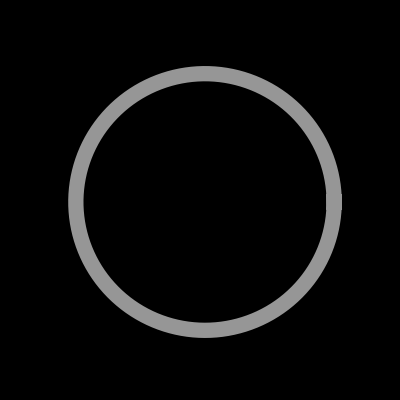
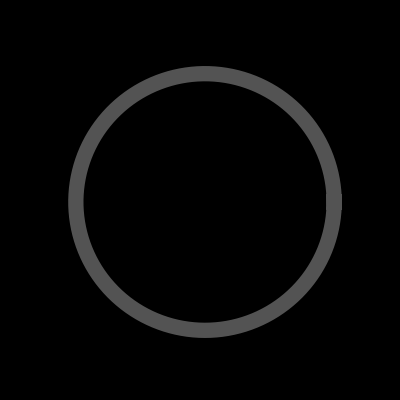
new

Changed region(s): [[0.15, 0.15, 0.87, 0.87]]

diff --git a/runBern.py b/runBern.py
@@ -5,7 +5,8 @@ from numpy.random import binomial, uniform
 import numpy as np
 import random
 import pandas as pd
-
+import csv
+import pickle
 import matplotlib.pyplot as plt
 
 try:
@@ -22,6 +23,19 @@ try:
 except:
     print('cant find response pad. Exiting now')
     sys.exit()
+
+
+
+
+
+def generateIntro(win):
+    intro = TextStim(win, text = 'Press RIGHT key if there are more Os \n Press LEFT key if there are more Xs\n\n Press any key on keypad to start', color='white', pos = (0,0))
+    return intro
+
+
+def generateBreak(win):
+    breakPage = TextStim(win, text = 'Break Time. \n Press any key to start.', color='white', pos = (0,0))
+    return breakPage
 
 
 def simulateTrials(numTrials: int, numSteps: int, numStim: int, Bias: float, initRange:range):
@@ -52,7 +66,7 @@ def simulateTrials(numTrials: int, numSteps: int, numStim: int, Bias: float, ini
 
 def randomizeTrials(X0,X1):
     trialTotal = len(X0) + len(X1)
-    randlist = np.arange(0,100)
+    randlist = np.arange(0,int(trialTotal))
     allTrials = np.vstack((X0,X1))
     random.shuffle(randlist)
     allTrials = allTrials[randlist,:]
@@ -72,6 +86,7 @@ def genVisualStim(win,size,pos):
 
 
 def runTrial(allTrials,img0,imgX,win,stimDur,trialIndex, refreshRate,port=s,keymap=keymap,abortkey=7):
+    timer = core.Clock()
     keylist=[]
     sequence = allTrials[trialIndex]
     fix = generateFixationCross(win)
@@ -88,7 +103,7 @@ def runTrial(allTrials,img0,imgX,win,stimDur,trialIndex, refreshRate,port=s,keym
     clear_buffer(port)
     reset_timer(port)
     while endTrial is False:
-        stim = img0 if sequence[count]==-1 else imgX
+        stim = img0 if sequence[count]==1 else imgX    # if 1 show 0s, if -1 show X
         for f in range(int(refreshRate*stimDur)):
             stim.draw()
             win.flip()
@@ -105,14 +120,14 @@ def runTrial(allTrials,img0,imgX,win,stimDur,trialIndex, refreshRate,port=s,keym
                 if press[0] ==1:
                     endTrial = True
                     core.wait(1)
-                    return count, t1, key, press, btime
+                    return count, t1, key, press, btime, stimDur, sequence
         count +=1
         if count == len(sequence):
             win.flip()
             endTrial = True
             t1 = timer.getTime()
     core.wait(1)
-    return count,t1,key,press,btime
+    return count,t1,key,press,btime,stimDur,sequence
 
 def winThreshold(win):
     win.recordFrameIntervals = True
@@ -120,24 +135,146 @@ def winThreshold(win):
     logging.console.setLevel(logging.WARNING)
     return win
 
+def clear_reset_port(port):
+    clear_buffer(port)
+    reset_timer(port)
 
-win = visual.Window(size=(1920, 1080), units='pix',color='black')
-win = winThreshold(win)
-X0,X1,initSteps = simulateTrials(numTrials=50,numSteps=60,numStim=1,Bias=0.08,initRange = [0,4,8])
-img0,imgX = genVisualStim(win,120,(0,0))
-allTrials = randomizeTrials(X0,X1)
-timer = core.Clock()
+# set up experiment
 
-resp =[]
-for t in range(0,5):
-    count,t1,key,press,btime = runTrial(allTrials= allTrials,img0=img0,imgX=imgX,win=win,stimDur=0.1,trialIndex=t,refreshRate=60)
-    try:
-        btime = HexToRt(BytesListToHexList(btime))
-    except IndexError:
-        pass
-    resp.append((t1, btime, press, count, key))
-    print(t1,btime,count)
-    print('Overall, %i frames were dropped.' % win.nDroppedFrames)
+def beginExp(port,numTrials,numSteps,numStim,Bias,initRange, newWin=True, win=None):
+    if newWin is True:
+        win = visual.Window(size=(1920, 1080), units='pix',color='black')
+        win = winThreshold(win)
+        intro = generateIntro(win)
+        intro.draw()
+        win.flip()
+        clear_reset_port(port)
+        resp = False
+        while resp is False:
+            k = port.in_waiting
+            if k != 0:
+                resp = True
+    else:
+        win = win
+    X0,X1,initSteps = simulateTrials(numTrials=numTrials,numSteps=numSteps,numStim=numStim,Bias=Bias,initRange = initRange)
+    img0,imgX = genVisualStim(win,120,(0,0))
+    allTrials = randomizeTrials(X0,X1)
+    return win, allTrials, img0, imgX, X0,X1
+
+
+def runBlock(port,numTrials,numSteps,numStim,Bias,initRange, stimDur, refreshRate=60, newWin = True, win=None):
+    win,allTrials,img0,imgX, X0,X1 = beginExp(port=port,numTrials=numTrials,numSteps=numSteps,numStim=numStim,Bias=Bias,initRange = initRange, newWin=newWin, win=win)
+    resp =[]
+    for t in range(0,len(allTrials)):
+        count,t1,key,press,btime, stimDur, sequence = runTrial(allTrials= allTrials,img0=img0,imgX=imgX,win=win,stimDur=stimDur,trialIndex=t,refreshRate=refreshRate)
+        try:
+            btime = HexToRt(BytesListToHexList(btime))
+        except IndexError:
+            pass
+        resp.append((t1, btime, press, count, key, stimDur, Bias, sequence))
+        print(t1,btime,count)
+        print('Overall, %i frames were dropped.' % win.nDroppedFrames)
+    return resp, allTrials,X0,X1, win
+
+def break_wait(win):
+    breakPage = generateBreak(win)
+    breakPage.draw()
+    win.flip()
+    clear_reset_port(s)
+    resp = False
+    while resp is False:
+        k = s.in_waiting
+        if k != 0:
+            resp = True
+    return win
+
+
+subj = input('############')
+trialPerBlock = 30
+if trialPerBlock % 2 != 0:
+    print('error: even trials')
+numTrial = int(trialPerBlock/2)
+
+#
+
+resp, allTrials,X0,X1, win = runBlock(port=s,numTrials=numTrial,numSteps=60,numStim=1,Bias=0.06,initRange = [0,4,8], stimDur= 0.05, refreshRate=60, newWin=True)
+df = pd.DataFrame(resp)
+df.columns = ['time','bytetime','press','count','key','stimDur','Bias','sequence']
+df.to_csv('data/'+ subj + '_block_0' + '.csv', index= False)
+win = break_wait(win)
+
+resp, allTrials,X0,X1, win = runBlock(port=s,numTrials=numTrial,numSteps=60,numStim=1,Bias=0.06,initRange = [0,4,8], stimDur= 0.1, refreshRate=60, newWin=False, win=win)
+df = pd.DataFrame(resp)
+df.columns = ['time','bytetime','press','count','key','stimDur','Bias','sequence']
+df.to_csv('data/'+ subj+ '_block_1' + '.csv', index= False)
+win = break_wait(win)
+
+resp, allTrials,X0,X1, win = runBlock(port=s,numTrials=numTrial,numSteps=60,numStim=1,Bias=0.06,initRange = [0,4,8], stimDur= 0.08, refreshRate=60, newWin=False, win=win)
+df = pd.DataFrame(resp)
+df.columns = ['time','bytetime','press','count','key','stimDur','Bias','sequence']
+df.to_csv('data/'+subj+ '_block_2' + '.csv', index= False)
+win = break_wait(win)
+
+
+resp, allTrials,X0,X1, win = runBlock(port=s,numTrials=numTrial,numSteps=60,numStim=1,Bias=0.06,initRange = [0,4,8], stimDur= 0.2, refreshRate=60, newWin=False, win=win)
+df = pd.DataFrame(resp)
+df.columns = ['time','bytetime','press','count','key','stimDur','Bias','sequence']
+df.to_csv('data/'+subj+ '_block_3' + '.csv', index= False)
+win = break_wait(win)
+
+resp, allTrials,X0,X1, win = runBlock(port=s,numTrials=numTrial,numSteps=60,numStim=1,Bias=0.06,initRange = [0,4,8], stimDur= 0.5, refreshRate=60, newWin=False, win=win)
+df = pd.DataFrame(resp)
+df.columns = ['time','bytetime','press','count','key','stimDur','Bias','sequence']
+df.to_csv('data/'+subj+ '_block_4' + '.csv', index= False)
+win = break_wait(win)
+
+
+
+resp, allTrials,X0,X1, win = runBlock(port=s,numTrials=numTrial,numSteps=60,numStim=1,Bias=0.06,initRange = [0,4,8], stimDur= 0.08, refreshRate=60, newWin=False, win=win)
+df = pd.DataFrame(resp)
+df.columns = ['time','bytetime','press','count','key','stimDur','Bias','sequence']
+df.to_csv('data/'+ subj + '_block_5' + '.csv', index= False)
+win = break_wait(win)
+
+resp, allTrials,X0,X1, win = runBlock(port=s,numTrials=numTrial,numSteps=60,numStim=1,Bias=0.06,initRange = [0,4,8], stimDur= 0.1, refreshRate=60, newWin=False, win=win)
+df = pd.DataFrame(resp)
+df.columns = ['time','bytetime','press','count','key','stimDur','Bias','sequence']
+df.to_csv('data/'+ subj + '_block_6' + '.csv', index= False)
+win = break_wait(win)
+
+resp, allTrials,X0,X1, win = runBlock(port=s,numTrials=numTrial,numSteps=60,numStim=1,Bias=0.06,initRange = [0,4,8], stimDur= 0.05, refreshRate=60, newWin=False, win=win)
+df = pd.DataFrame(resp)
+df.columns = ['time','bytetime','press','count','key','stimDur','Bias','sequence']
+df.to_csv('data/'+ subj + '_block_7' + '.csv', index= False)
+win = break_wait(win)
+
+resp, allTrials,X0,X1, win = runBlock(port=s,numTrials=numTrial,numSteps=60,numStim=1,Bias=0.06,initRange = [0,4,8], stimDur= 0.5, refreshRate=60, newWin=False, win=win)
+df = pd.DataFrame(resp)
+df.columns = ['time','bytetime','press','count','key','stimDur','Bias','sequence']
+df.to_csv('data/'+ subj + '_block_8' + '.csv', index= False)
+win = break_wait(win)
+
+resp, allTrials,X0,X1, win = runBlock(port=s,numTrials=numTrial,numSteps=60,numStim=1,Bias=0.06,initRange = [0,4,8], stimDur= 0.2, refreshRate=60, newWin=False, win=win)
+df = pd.DataFrame(resp)
+df.columns = ['time','bytetime','press','count','key','stimDur','Bias','sequence']
+df.to_csv('data/'+ subj + '_block_9' + '.csv', index= False)
+
+
+win.close()
+
+#
+# breakPage = generateBreak(win)
+# breakPage.draw()
+# win.flip()
+# clear_reset_port(s)
+# resp = False
+# while resp is False:
+#     k = s.in_waiting
+#     if k != 0:
+#         resp = True
+
+
+
 
 # check the randomwalk
 fig, ax = plt.subplots(2,1, figsize = (10,12))
@@ -152,12 +289,40 @@ ax[1].set_title('Correlation Coefficients')
 fig.show()
 
 
-# check the randomwalk
-fig, ax = plt.subplots(2,1, figsize = (10,12))
-Lines0 = ax[0].plot(np.cumsum(allTrials[0:5], axis=1).T)
-# ax[0].legend([Lines0[0]])
+# # check the randomwalk
+# fig, ax = plt.subplots(2,1, figsize = (10,12))
+# Lines0 = ax[0].plot(np.cumsum(allTrials[0:5], axis=1).T)
+# # ax[0].legend([Lines0[0]])
+#
+# # check the correlation variance
+# ax[1].hist(np.corrcoef(allTrials[0:5,:])[~np.eye(5,5,dtype='bool')].flatten(), color = 'blue',alpha=0.8)
+# ax[1].set_title('Correlation Coefficients')
+# fig.show()
 
-# check the correlation variance
-ax[1].hist(np.corrcoef(allTrials[0:5,:])[~np.eye(5,5,dtype='bool')].flatten(), color = 'blue',alpha=0.8)
-ax[1].set_title('Correlation Coefficients')
-fig.show()
+for index, row in df.iterrows():
+    trial_count = row['count']
+    print(trial_count)
+    key = 'O' if row['key'] == [5] else 'X'
+    linecolor = 'red' if key == 'O' else 'black'
+    plt.plot(np.cumsum(row['sequence'][0:trial_count-3]), color = linecolor)
+plt.title('red: 0, black: X')
+plt.show()
+
+key =[]
+for i in df['key']:
+    if len(i)>0:
+        key.append(i[0])
+    else:
+        key.append(0)
+
+l = [True if i==2 else False for i in key]
+seq = []
+for index, row in df[l].iterrows():
+    ratio0 = (sum(row['sequence'][0:row['count'] - 3] == 1)/ len(row['sequence'][0:row['count'] - 3]))
+    # if ratio0>0.5:
+    #     print(ratio0)
+    plt.plot(np.cumsum(row['sequence'][0:row['count']-3]))
+
+plt.show()
+
+# block 50 trials 0.05, 50 trials of 0.08, 50 trials of 0.1

diff --git a/genstim_single.py b/genstim_single.py
@@ -73,8 +73,8 @@ fig = save_unitX(x_X,y_X,linewidth=11,color='black',figsize=4)
 imX = png2array('stim/outputX.png')
 gX = greySwap(rgb2gray(imX))
 gX[gX == np.min(gX)] = 0
-g = g*0.9
-gX = gX*0.9
+g = g*0.5
+gX = gX*0.5
 imX = Image.fromarray(gX)
 imX.show()
 

diff --git a/RWSimulation.py b/RWSimulation.py
@@ -53,7 +53,7 @@ def genUnbiasedSets(nset):
     return UnbiasedSet
 
 # start simulation
-X0,X1 = simulateTrials(6,30,1,0.06,[0,4,8])
+X0,X1 = simulateTrials(6,60,1,0.07,[0,4,8])
 X0[X0==0]= -1
 X1[X1==0] = -1
 X0[X0==0.5]= 0
